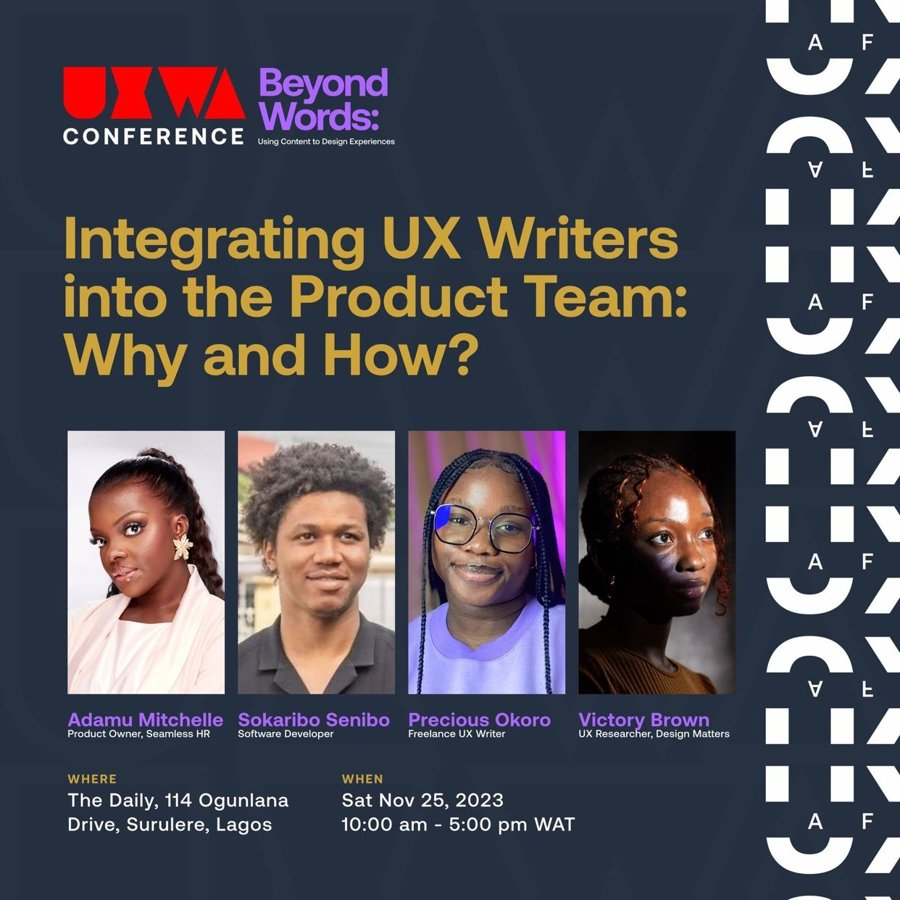
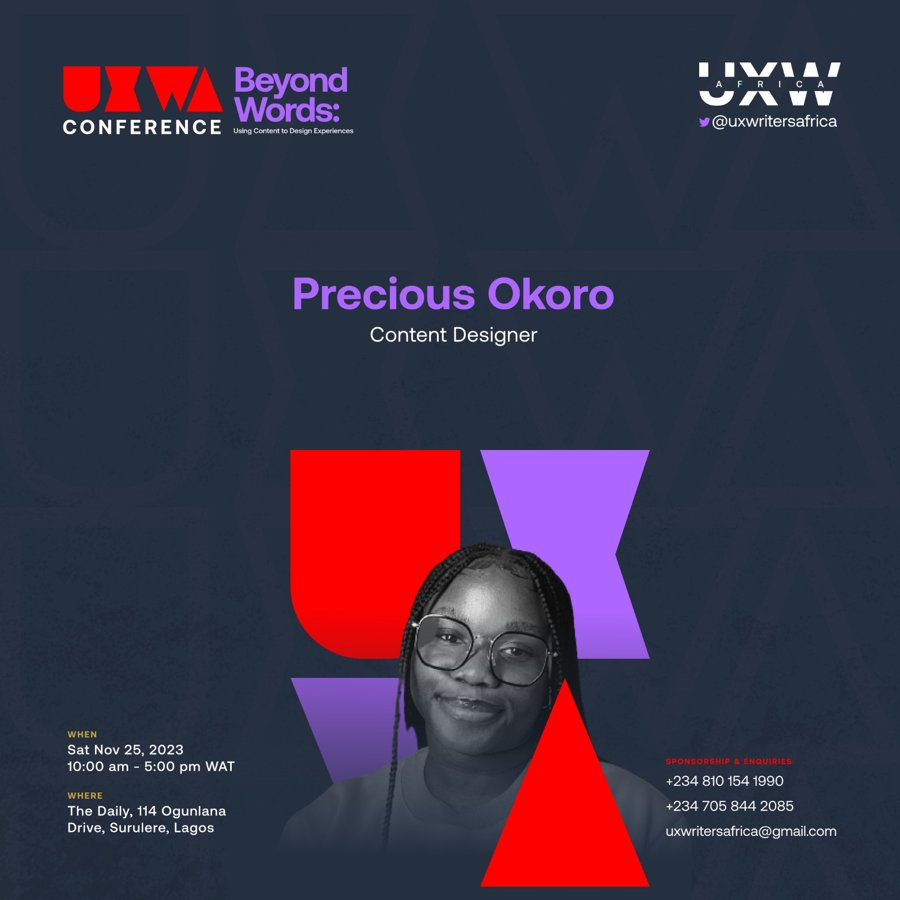
Swap UXWA Conference 2023 card to the speaker announcement graphic
Replaces the group panel photo with the individual speaker-announcement
flyer for the same engagement, and updates the alt text to match.

diff --git a/features.html b/features.html
@@ -65,7 +65,7 @@
         <p class="f-meta">Speaker · Online · Nov 23, 2024</p>
       </a>
       <a href="images/features/features-uxwa-2023-panel.jpg" target="_blank" rel="noopener" class="feature-card reveal-on-scroll">
-        <img src="images/features/features-uxwa-2023-panel.jpg" alt="UXWA Conference 2023 panel, Integrating UX Writers into the Product Team, with Precious Okoro and three co-panelists">
+        <img src="images/features/features-uxwa-2023-panel.jpg" alt="UXWA Conference 2023 speaker announcement for Precious Okoro, Content Designer">
         <span class="f-eyebrow">UXWA Conference 2023</span>
         <h3>Integrating UX Writers into the Product Team: Why and How?</h3>
         <p class="f-meta">Panelist · Lagos, Nigeria · Nov 25, 2023</p>
